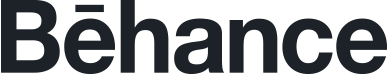
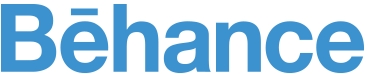
Added blue

diff --git a/_site/blog/2014/11/22/redesigning-the-pioneer-press/index.html b/_site/blog/2014/11/22/redesigning-the-pioneer-press/index.html
@@ -224,7 +224,7 @@ After launching the newly redesigned Pioneer Press Site, we stepped away from it
             Portfolio: <a href="http://www.behance.net/jawsmartin" class="">Behance</a>, <a href="http://www.dribbble.com/joshmartindesigns" class="">Dribbble</a>, <a href="http://www.joshmartindraws.tumblr.com" class="">Tumblr</a><br>
             Skills/Experience: <a href="joshmartincv.pdf" class="">View CV</a><br>
             Contact: <a href="mailto:hellojoshmartin@gmail.com" class="">hellojoshmartin@gmail.com</a><br>
-            Follow: <a href="http://www.twitter.com/jawsmartin" class="">Twitter</a>, <a href="http://www.instagram.com/jawsmartin" class="">Instagram</a>
+            Follow: <a href="http://www.twitter.com/jawsmartin" class="">Twitter</a>, <a href="http://www.instagram.com/jawsmartin" class="">Instagram</a>, <a href="http://www.facebook.com/jawsmartin" class="">Facebook</a>
           </p>
         </div>  
 

diff --git a/_site/css/main.css b/_site/css/main.css
@@ -173,7 +173,8 @@ p .link:hover {
   text-decoration: underline;
 }
 a {
-  color: rgba(38, 61, 72, 1);
+  color: RGBA(37, 147, 232, 1);
+  text-decoration: none;
 }
 a {
   transition: all .2s ease; 
@@ -240,7 +241,9 @@ a:hover {
 
 .button span {
   margin-top: 10px;
+  color: RGBA(37, 147, 232, 1);
   display: inline-block;
+  font-weight: 500;
   font-size: 13px;
 }
 
@@ -310,7 +313,7 @@ header h3 {
 }
 
 .blog-post-container .blog-post:hover .post-title {
-  opacity: .5;
+  color: RGBA(37, 147, 232, 1);
 }
 .blog-post-container .blog-post:hover .post-date {
   opacity: .4;
@@ -401,9 +404,7 @@ p {
 .post figure + p { 
   padding-top: 20px;
 }
-p a {
-  color: #263D49;
-}
+
 li a {
   text-decoration: none;
 }
@@ -562,6 +563,10 @@ footer .about p:last-of-type {
   opacity: .6;
   line-height: 1.4;
   font-size: 12px;
+}
+.copyright a {
+  color: inherit;
+  text-decoration: underline;
 }
 .footer-content {
   margin-top: 75px;

diff --git a/css/main.css b/css/main.css
@@ -173,7 +173,8 @@ p .link:hover {
   text-decoration: underline;
 }
 a {
-  color: rgba(38, 61, 72, 1);
+  color: RGBA(37, 147, 232, 1);
+  text-decoration: none;
 }
 a {
   transition: all .2s ease; 
@@ -240,7 +241,9 @@ a:hover {
 
 .button span {
   margin-top: 10px;
+  color: RGBA(37, 147, 232, 1);
   display: inline-block;
+  font-weight: 500;
   font-size: 13px;
 }
 
@@ -310,7 +313,7 @@ header h3 {
 }
 
 .blog-post-container .blog-post:hover .post-title {
-  opacity: .5;
+  color: RGBA(37, 147, 232, 1);
 }
 .blog-post-container .blog-post:hover .post-date {
   opacity: .4;
@@ -401,9 +404,7 @@ p {
 .post figure + p { 
   padding-top: 20px;
 }
-p a {
-  color: #263D49;
-}
+
 li a {
   text-decoration: none;
 }
@@ -562,6 +563,10 @@ footer .about p:last-of-type {
   opacity: .6;
   line-height: 1.4;
   font-size: 12px;
+}
+.copyright a {
+  color: inherit;
+  text-decoration: underline;
 }
 .footer-content {
   margin-top: 75px;

diff --git a/_site/blog/2015/02/05/the-world-revolves-around-the-sun/index.html b/_site/blog/2015/02/05/the-world-revolves-around-the-sun/index.html
@@ -257,7 +257,7 @@ Emphasis on apps</p>
             Portfolio: <a href="http://www.behance.net/jawsmartin" class="">Behance</a>, <a href="http://www.dribbble.com/joshmartindesigns" class="">Dribbble</a>, <a href="http://www.joshmartindraws.tumblr.com" class="">Tumblr</a><br>
             Skills/Experience: <a href="joshmartincv.pdf" class="">View CV</a><br>
             Contact: <a href="mailto:hellojoshmartin@gmail.com" class="">hellojoshmartin@gmail.com</a><br>
-            Follow: <a href="http://www.twitter.com/jawsmartin" class="">Twitter</a>, <a href="http://www.instagram.com/jawsmartin" class="">Instagram</a>
+            Follow: <a href="http://www.twitter.com/jawsmartin" class="">Twitter</a>, <a href="http://www.instagram.com/jawsmartin" class="">Instagram</a>, <a href="http://www.facebook.com/jawsmartin" class="">Facebook</a>
           </p>
         </div>  
 

diff --git a/_site/blog/2014/11/05/illustrator-grid-template/index.html b/_site/blog/2014/11/05/illustrator-grid-template/index.html
@@ -122,7 +122,7 @@
             Portfolio: <a href="http://www.behance.net/jawsmartin" class="">Behance</a>, <a href="http://www.dribbble.com/joshmartindesigns" class="">Dribbble</a>, <a href="http://www.joshmartindraws.tumblr.com" class="">Tumblr</a><br>
             Skills/Experience: <a href="joshmartincv.pdf" class="">View CV</a><br>
             Contact: <a href="mailto:hellojoshmartin@gmail.com" class="">hellojoshmartin@gmail.com</a><br>
-            Follow: <a href="http://www.twitter.com/jawsmartin" class="">Twitter</a>, <a href="http://www.instagram.com/jawsmartin" class="">Instagram</a>
+            Follow: <a href="http://www.twitter.com/jawsmartin" class="">Twitter</a>, <a href="http://www.instagram.com/jawsmartin" class="">Instagram</a>, <a href="http://www.facebook.com/jawsmartin" class="">Facebook</a>
           </p>
         </div>  
 

diff --git a/_site/blog/2014/12/05/bringing-the-news-to-the-caribbean/index.html b/_site/blog/2014/12/05/bringing-the-news-to-the-caribbean/index.html
@@ -163,7 +163,7 @@
             Portfolio: <a href="http://www.behance.net/jawsmartin" class="">Behance</a>, <a href="http://www.dribbble.com/joshmartindesigns" class="">Dribbble</a>, <a href="http://www.joshmartindraws.tumblr.com" class="">Tumblr</a><br>
             Skills/Experience: <a href="joshmartincv.pdf" class="">View CV</a><br>
             Contact: <a href="mailto:hellojoshmartin@gmail.com" class="">hellojoshmartin@gmail.com</a><br>
-            Follow: <a href="http://www.twitter.com/jawsmartin" class="">Twitter</a>, <a href="http://www.instagram.com/jawsmartin" class="">Instagram</a>
+            Follow: <a href="http://www.twitter.com/jawsmartin" class="">Twitter</a>, <a href="http://www.instagram.com/jawsmartin" class="">Instagram</a>, <a href="http://www.facebook.com/jawsmartin" class="">Facebook</a>
           </p>
         </div>  
 

diff --git a/_site/blog/2014/12/22/testing-ireland/index.html b/_site/blog/2014/12/22/testing-ireland/index.html
@@ -167,7 +167,7 @@
             Portfolio: <a href="http://www.behance.net/jawsmartin" class="">Behance</a>, <a href="http://www.dribbble.com/joshmartindesigns" class="">Dribbble</a>, <a href="http://www.joshmartindraws.tumblr.com" class="">Tumblr</a><br>
             Skills/Experience: <a href="joshmartincv.pdf" class="">View CV</a><br>
             Contact: <a href="mailto:hellojoshmartin@gmail.com" class="">hellojoshmartin@gmail.com</a><br>
-            Follow: <a href="http://www.twitter.com/jawsmartin" class="">Twitter</a>, <a href="http://www.instagram.com/jawsmartin" class="">Instagram</a>
+            Follow: <a href="http://www.twitter.com/jawsmartin" class="">Twitter</a>, <a href="http://www.instagram.com/jawsmartin" class="">Instagram</a>, <a href="http://www.facebook.com/jawsmartin" class="">Facebook</a>
           </p>
         </div>  
 

diff --git a/_site/blog/2015/01/05/correcting-early-career-mistakes/index.html b/_site/blog/2015/01/05/correcting-early-career-mistakes/index.html
@@ -137,7 +137,7 @@
             Portfolio: <a href="http://www.behance.net/jawsmartin" class="">Behance</a>, <a href="http://www.dribbble.com/joshmartindesigns" class="">Dribbble</a>, <a href="http://www.joshmartindraws.tumblr.com" class="">Tumblr</a><br>
             Skills/Experience: <a href="joshmartincv.pdf" class="">View CV</a><br>
             Contact: <a href="mailto:hellojoshmartin@gmail.com" class="">hellojoshmartin@gmail.com</a><br>
-            Follow: <a href="http://www.twitter.com/jawsmartin" class="">Twitter</a>, <a href="http://www.instagram.com/jawsmartin" class="">Instagram</a>
+            Follow: <a href="http://www.twitter.com/jawsmartin" class="">Twitter</a>, <a href="http://www.instagram.com/jawsmartin" class="">Instagram</a>, <a href="http://www.facebook.com/jawsmartin" class="">Facebook</a>
           </p>
         </div>  
 

diff --git a/_site/blog/2015/01/22/your-inbox-just-got-dunked-on/index.html b/_site/blog/2015/01/22/your-inbox-just-got-dunked-on/index.html
@@ -116,7 +116,7 @@
             Portfolio: <a href="http://www.behance.net/jawsmartin" class="">Behance</a>, <a href="http://www.dribbble.com/joshmartindesigns" class="">Dribbble</a>, <a href="http://www.joshmartindraws.tumblr.com" class="">Tumblr</a><br>
             Skills/Experience: <a href="joshmartincv.pdf" class="">View CV</a><br>
             Contact: <a href="mailto:hellojoshmartin@gmail.com" class="">hellojoshmartin@gmail.com</a><br>
-            Follow: <a href="http://www.twitter.com/jawsmartin" class="">Twitter</a>, <a href="http://www.instagram.com/jawsmartin" class="">Instagram</a>
+            Follow: <a href="http://www.twitter.com/jawsmartin" class="">Twitter</a>, <a href="http://www.instagram.com/jawsmartin" class="">Instagram</a>, <a href="http://www.facebook.com/jawsmartin" class="">Facebook</a>
           </p>
         </div>  
 

diff --git a/_site/blog/2015/02/22/transitioning-to-front-end-developer/index.html b/_site/blog/2015/02/22/transitioning-to-front-end-developer/index.html
@@ -123,7 +123,7 @@
             Portfolio: <a href="http://www.behance.net/jawsmartin" class="">Behance</a>, <a href="http://www.dribbble.com/joshmartindesigns" class="">Dribbble</a>, <a href="http://www.joshmartindraws.tumblr.com" class="">Tumblr</a><br>
             Skills/Experience: <a href="joshmartincv.pdf" class="">View CV</a><br>
             Contact: <a href="mailto:hellojoshmartin@gmail.com" class="">hellojoshmartin@gmail.com</a><br>
-            Follow: <a href="http://www.twitter.com/jawsmartin" class="">Twitter</a>, <a href="http://www.instagram.com/jawsmartin" class="">Instagram</a>
+            Follow: <a href="http://www.twitter.com/jawsmartin" class="">Twitter</a>, <a href="http://www.instagram.com/jawsmartin" class="">Instagram</a>, <a href="http://www.facebook.com/jawsmartin" class="">Facebook</a>
           </p>
         </div>  
 

diff --git a/_site/blog/2015/03/05/soccer-moms-rejoice/index.html b/_site/blog/2015/03/05/soccer-moms-rejoice/index.html
@@ -406,7 +406,7 @@
             Portfolio: <a href="http://www.behance.net/jawsmartin" class="">Behance</a>, <a href="http://www.dribbble.com/joshmartindesigns" class="">Dribbble</a>, <a href="http://www.joshmartindraws.tumblr.com" class="">Tumblr</a><br>
             Skills/Experience: <a href="joshmartincv.pdf" class="">View CV</a><br>
             Contact: <a href="mailto:hellojoshmartin@gmail.com" class="">hellojoshmartin@gmail.com</a><br>
-            Follow: <a href="http://www.twitter.com/jawsmartin" class="">Twitter</a>, <a href="http://www.instagram.com/jawsmartin" class="">Instagram</a>
+            Follow: <a href="http://www.twitter.com/jawsmartin" class="">Twitter</a>, <a href="http://www.instagram.com/jawsmartin" class="">Instagram</a>, <a href="http://www.facebook.com/jawsmartin" class="">Facebook</a>
           </p>
         </div>  
 

diff --git a/_site/blog/2015/03/22/simplicity-takes-courage/index.html b/_site/blog/2015/03/22/simplicity-takes-courage/index.html
@@ -125,7 +125,7 @@
             Portfolio: <a href="http://www.behance.net/jawsmartin" class="">Behance</a>, <a href="http://www.dribbble.com/joshmartindesigns" class="">Dribbble</a>, <a href="http://www.joshmartindraws.tumblr.com" class="">Tumblr</a><br>
             Skills/Experience: <a href="joshmartincv.pdf" class="">View CV</a><br>
             Contact: <a href="mailto:hellojoshmartin@gmail.com" class="">hellojoshmartin@gmail.com</a><br>
-            Follow: <a href="http://www.twitter.com/jawsmartin" class="">Twitter</a>, <a href="http://www.instagram.com/jawsmartin" class="">Instagram</a>
+            Follow: <a href="http://www.twitter.com/jawsmartin" class="">Twitter</a>, <a href="http://www.instagram.com/jawsmartin" class="">Instagram</a>, <a href="http://www.facebook.com/jawsmartin" class="">Facebook</a>
           </p>
         </div>  
 
